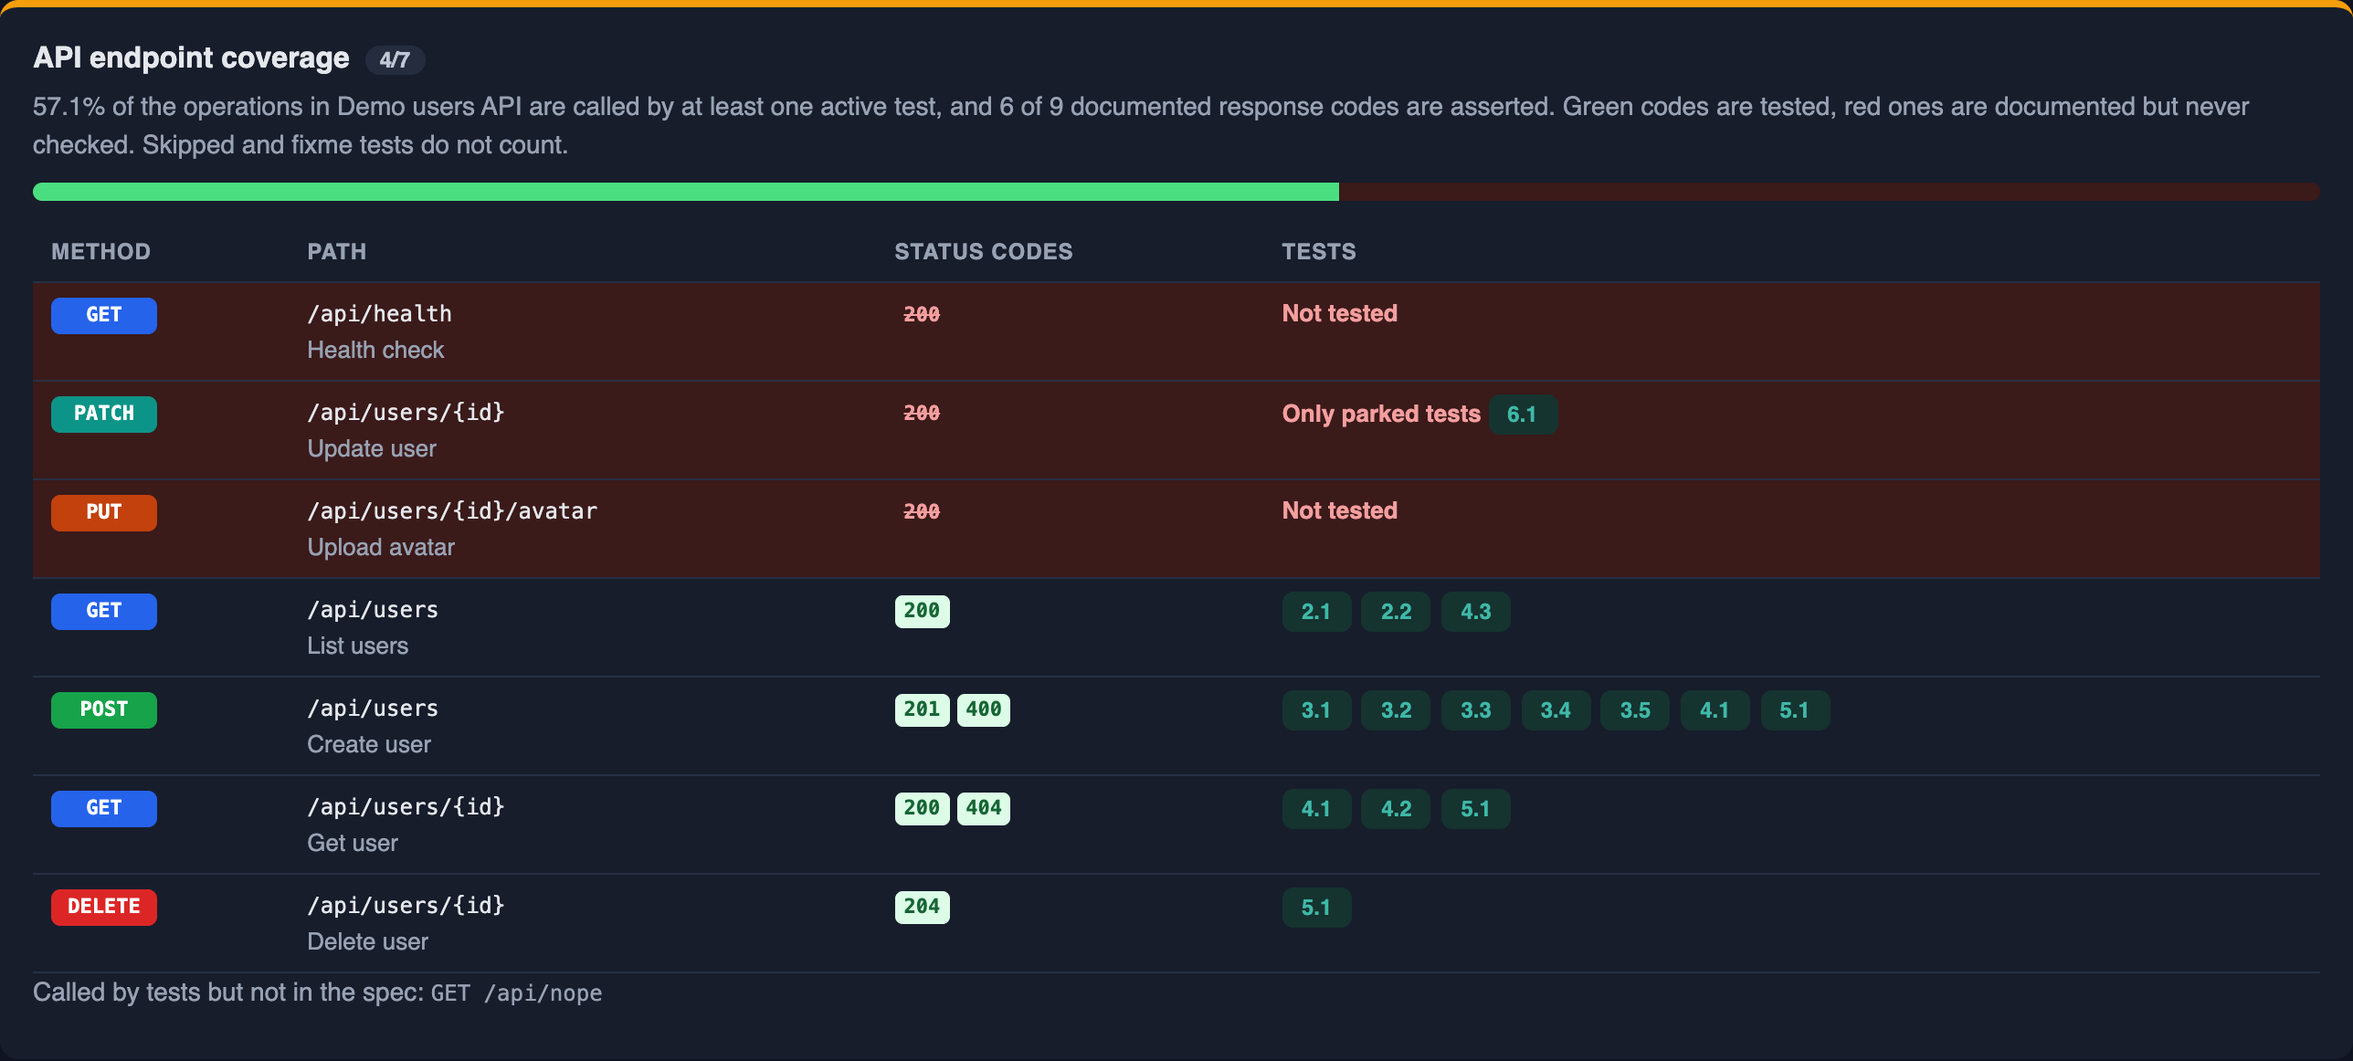
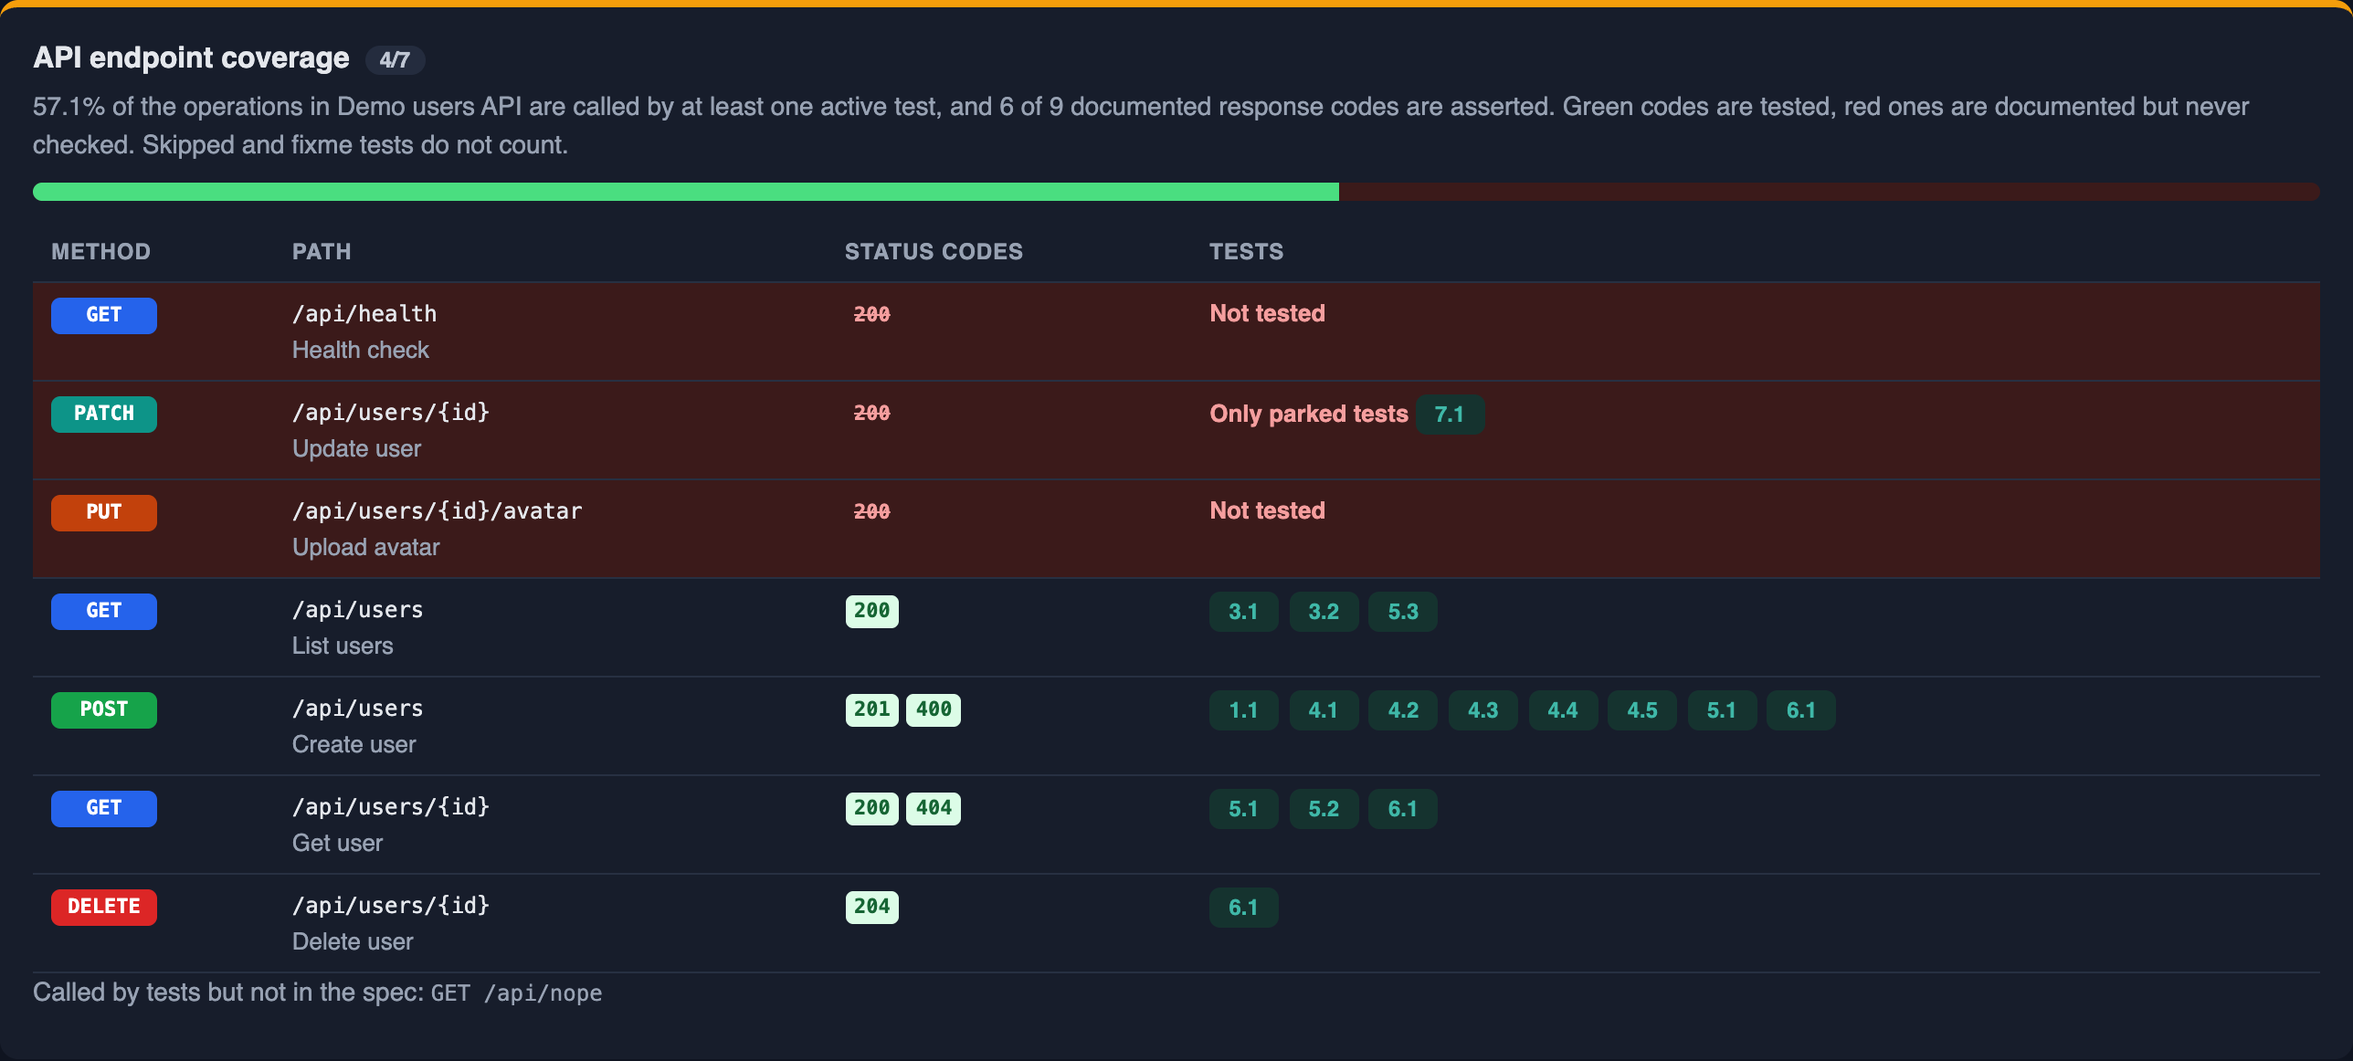
Paginate the tests list and recognise fixture-extended test functions
- Tests tab shows 25/50/100/all tests per page (remembered per browser);
  filters reset to page 1 and links from Insights open the right page.
- Test functions created with test.extend() under any name (testAPI,
  apiTest, ...) are recognised: names are learned from the lines
  Playwright reports and from .step/.describe usage, so their steps,
  assertions and skip/fixme reasons are collected.

diff --git a/src/render/html.js b/src/render/html.js
@@ -254,6 +254,14 @@ ${suite.cases.map(caseHtml).join("\n")}
   .btn { border: 1px solid var(--input); background: var(--card); color: var(--text); border-radius: 8px; padding: 8px 12px; font: inherit; cursor: pointer; }
   .btn:hover { border-color: var(--accent); color: var(--accent); }
   #showing { color: var(--muted); margin-left: auto; font-weight: 600; }
+  .pagesize { display: inline-flex; gap: 6px; align-items: center; color: var(--muted); }
+  .pager { display: flex; flex-wrap: wrap; gap: 6px; justify-content: center; align-items: center; margin: 18px 0 8px; }
+  .pager button { min-width: 38px; border: 1px solid var(--input); background: var(--card); color: var(--text); border-radius: 8px; padding: 7px 11px; font: inherit; cursor: pointer; }
+  .pager button:hover:not(:disabled) { border-color: var(--accent); color: var(--accent); }
+  .pager button[aria-current=page] { background: var(--accent); border-color: var(--accent); color: #fff; }
+  .pager button:disabled { opacity: .45; cursor: default; }
+  .pager .gap { color: var(--muted); padding: 0 2px; }
+  .empty { text-align: center; color: var(--muted); padding: 32px 0; }
   .head, .suite { display: grid; grid-template-columns: 52px 290px minmax(0, 1fr); }
   .head { font-weight: 600; background: var(--head); color: var(--head-text); border-radius: 10px; margin-bottom: 12px; border: 1px solid var(--line); }
   .head > div { padding: 10px 12px; }
@@ -384,12 +392,15 @@ ${suite.cases.map(caseHtml).join("\n")}
       </select>
       <button class="btn" id="expand" type="button">Expand all</button>
       <button class="btn" id="collapse" type="button">Collapse all</button>
+      <label class="pagesize">Per page <select id="pagesize" aria-label="Tests per page"><option value="25">25</option><option value="50">50</option><option value="100">100</option><option value="0">All</option></select></label>
       <span id="showing"></span>
     </div>
     <div class="head"><div>#</div><div>Test suite</div><div class="pair"><div>Test case</div><div>Steps and checks</div></div></div>
     <main id="list">
 ${suitesHtml}
     </main>
+    <p class="empty" id="empty" hidden>No tests match these filters.</p>
+    <nav class="pager" id="pager" aria-label="Test pages"></nav>
   </div>
 
   <div id="insights" role="tabpanel" aria-labelledby="tab-insights" hidden>
@@ -404,27 +415,78 @@ ${sections.join("\n")}
 (() => {
   const $ = (s) => document.querySelector(s);
   const input = $("#q"), flag = $("#flag"), status = $("#status"), showing = $("#showing");
+  const pager = $("#pager"), sizeSelect = $("#pagesize"), list = $("#list"), empty = $("#empty");
   const typeButtons = [...document.querySelectorAll(".seg button")];
   const suites = [...document.querySelectorAll(".suite")];
+  const cases = [...document.querySelectorAll(".case")];
   const total = ${t.cases};
   let type = "all";
+  let page = 0;
+  let matching = cases;
+  let pageSize = 25;
+  try { const saved = localStorage.getItem("pwcm-pagesize"); if (saved !== null) pageSize = Number(saved); } catch {}
+  if (![25, 50, 100, 0].includes(pageSize)) pageSize = 25;
+  sizeSelect.value = String(pageSize);
+
+  const pages = () => (pageSize ? Math.max(1, Math.ceil(matching.length / pageSize)) : 1);
+
+  function filter() {
+    const terms = input.value.toLowerCase().split(/\s+/).filter(Boolean);
+    matching = cases.filter((item) => (type === "all" || item.dataset.type === type)
+      && (!flag.value || item.dataset.flags.split(" ").includes(flag.value))
+      && (!status || !status.value || item.dataset.status === status.value)
+      && terms.every((term) => item.dataset.search.includes(term)));
+  }
+
+  function render() {
+    page = Math.min(page, pages() - 1);
+    const start = pageSize ? page * pageSize : 0;
+    const end = pageSize ? start + pageSize : matching.length;
+    const visible = new Set(matching.slice(start, end));
+    for (const item of cases) item.hidden = !visible.has(item);
+    for (const suite of suites) suite.hidden = ![...suite.querySelectorAll(".case")].some((item) => visible.has(item));
+    empty.hidden = matching.length > 0;
+    const filtered = matching.length === total ? "" : " (" + total + " in total)";
+    showing.textContent = matching.length
+      ? (visible.size === matching.length ? "Showing " + matching.length : "Showing " + (start + 1) + "–" + Math.min(end, matching.length) + " of " + matching.length) + filtered
+      : "Showing 0 of " + total;
+    renderPager();
+  }
+
+  function renderPager() {
+    const count = pages();
+    pager.hidden = count <= 1;
+    if (count <= 1) { pager.innerHTML = ""; return; }
+    const numbers = [...new Set([0, page - 1, page, page + 1, count - 1])].filter((n) => n >= 0 && n < count).sort((a, b) => a - b);
+    const parts = ['<button type="button" data-page="' + (page - 1) + '"' + (page === 0 ? " disabled" : "") + ' aria-label="Previous page">‹ Prev</button>'];
+    numbers.forEach((n, i) => {
+      if (i && n - numbers[i - 1] > 1) parts.push('<span class="gap">…</span>');
+      parts.push('<button type="button" data-page="' + n + '"' + (n === page ? ' aria-current="page"' : "") + ' aria-label="Page ' + (n + 1) + '">' + (n + 1) + "</button>");
+    });
+    parts.push('<button type="button" data-page="' + (page + 1) + '"' + (page === count - 1 ? " disabled" : "") + ' aria-label="Next page">Next ›</button>');
+    pager.innerHTML = parts.join("");
+  }
+
+  pager.addEventListener("click", (event) => {
+    const button = event.target.closest("button[data-page]");
+    if (!button || button.disabled) return;
+    page = Number(button.dataset.page);
+    render();
+    list.scrollIntoView({ block: "start" });
+    window.scrollBy(0, -80);
+  });
+  sizeSelect.addEventListener("change", () => {
+    const first = matching[pageSize ? page * pageSize : 0];
+    pageSize = Number(sizeSelect.value);
+    try { localStorage.setItem("pwcm-pagesize", String(pageSize)); } catch {}
+    page = first && pageSize ? Math.floor(matching.indexOf(first) / pageSize) : 0;
+    render();
+  });
 
   function apply() {
-    const terms = input.value.toLowerCase().split(/\\s+/).filter(Boolean);
-    let shown = 0;
-    for (const suite of suites) {
-      let any = false;
-      for (const item of suite.querySelectorAll(".case")) {
-        const ok = (type === "all" || item.dataset.type === type)
-          && (!flag.value || item.dataset.flags.split(" ").includes(flag.value))
-          && (!status || !status.value || item.dataset.status === status.value)
-          && terms.every((term) => item.dataset.search.includes(term));
-        item.hidden = !ok;
-        if (ok) { any = true; shown += 1; }
-      }
-      suite.hidden = !any;
-    }
-    showing.textContent = "Showing " + shown + " of " + total;
+    filter();
+    page = 0;
+    render();
   }
   input.addEventListener("input", apply);
   flag.addEventListener("change", apply);
@@ -459,11 +521,13 @@ ${sections.join("\n")}
     const target = hash && document.getElementById(hash);
     if (!target || !target.classList.contains("case")) return;
     showTab("tests");
-    if (target.hidden) {
+    if (!matching.includes(target)) {
       input.value = ""; flag.value = ""; if (status) status.value = "";
       type = "all"; typeButtons.forEach((b) => b.setAttribute("aria-pressed", String(b.dataset.type === "all")));
-      apply();
+      filter();
     }
+    if (pageSize) page = Math.floor(matching.indexOf(target) / pageSize);
+    render();
     const details = target.querySelector("details");
     if (details) details.open = true;
     target.scrollIntoView({ block: "center" });

diff --git a/src/analyse.js b/src/analyse.js
@@ -190,10 +190,46 @@ export function createAnalyser(options = {}) {
     return { kind: "api", method, path };
   }
 
+  // ------------------------------------------------------------ test function names
+  // Default names plus any custom ones: functions called on lines where Playwright found a test,
+  // and identifiers used like a test object (`apiTest.step`, `apiTest.describe`, ...).
+  function testFunctionNames(sf, testLines) {
+    const found = new Set(testNames);
+    const lines = new Set(testLines ?? []);
+    const rootOf = (callee) => {
+      let node = callee;
+      while (ts.isPropertyAccessExpression(node)) node = node.expression;
+      return ts.isIdentifier(node) ? node.text : null;
+    };
+    const walk = (node) => {
+      if (ts.isCallExpression(node)) {
+        const callee = node.expression;
+        if (lines.size && isStringish(node.arguments[0]) && node.arguments.some(isFunction)) {
+          const line = sf.getLineAndCharacterOfPosition(node.getStart(sf)).line + 1;
+          const root = rootOf(callee);
+          if (lines.has(line) && root) found.add(root);
+        }
+        if (ts.isPropertyAccessExpression(callee) && ["step", "describe", "beforeEach", "afterEach", "beforeAll", "afterAll"].includes(callee.name.text)) {
+          const root = rootOf(callee.expression);
+          if (root && root !== "expect" && node.arguments.some(isFunction)) found.add(root);
+        }
+      }
+      ts.forEachChild(node, walk);
+    };
+    walk(sf);
+    return found;
+  }
+
   // ------------------------------------------------------------ spec analysis
-  function analyse(file) {
+  /**
+   * @param {string} file
+   * @param {Iterable<number>} [testLines] lines where Playwright found tests in this file. Whatever
+   *   function is called on those lines is a test function (e.g. `testAPI` from `base.extend()`).
+   */
+  function analyse(file, testLines) {
     if (fileCache.has(file)) return fileCache.get(file);
     const sf = parse(file);
+    const names = testFunctionNames(sf, testLines);
     const clients = { ...discoverClients(file), ...configuredClients };
     const constants = {};
     const tests = new Map();
@@ -204,7 +240,7 @@ export function createAnalyser(options = {}) {
         if (ts.isCallExpression(node)) {
           const callee = node.expression;
           // test.step("title", fn)
-          if (ts.isPropertyAccessExpression(callee) && ts.isIdentifier(callee.expression) && testNames.has(callee.expression.text)) {
+          if (ts.isPropertyAccessExpression(callee) && ts.isIdentifier(callee.expression) && names.has(callee.expression.text)) {
             const method = callee.name.text;
             if (method === "step") {
               const fn = node.arguments.find(isFunction);
@@ -283,7 +319,7 @@ export function createAnalyser(options = {}) {
         const callee = node.expression;
         const root = ts.isIdentifier(callee) ? callee : ts.isPropertyAccessExpression(callee) ? callee.expression : null;
         const method = ts.isPropertyAccessExpression(callee) ? callee.name.text : null;
-        const rootIsTest = root && ts.isIdentifier(root) && testNames.has(root.text);
+        const rootIsTest = root && ts.isIdentifier(root) && names.has(root.text);
         const describeRoot = ts.isPropertyAccessExpression(callee) && (callee.name.text === "describe" || (ts.isPropertyAccessExpression(callee.expression) && callee.expression.name.text === "describe"));
 
         if (describeRoot) {

diff --git a/test/cli.test.js b/test/cli.test.js
@@ -19,14 +19,20 @@ test("builds html, json, md and csv for the example suite", () => {
   const res = run("--list-file", listFile, "--openapi", "openapi.json", "--out", out, "-f", "html,json,md,csv", "--no-source-url");
   assert.equal(res.status, 0, res.stderr);
   const report = JSON.parse(readFileSync(join(out, "coverage.json"), "utf8"));
-  assert.equal(report.totals.cases, 18);
-  assert.deepEqual(report.totals.byType, { api: 14, ui: 4 });
-  assert.equal(report.totals.parked, 2);
+  assert.equal(report.totals.cases, 20);
+  assert.deepEqual(report.totals.byType, { api: 16, ui: 4 });
+  assert.equal(report.totals.parked, 3);
   assert.deepEqual(report.warnings, []);
 
   const byTitle = Object.fromEntries(report.suites.flatMap((s) => s.cases).map((c) => [c.title, c]));
   assert.equal(byTitle["rejects an empty name"].steps[0].title, "When I create a user with an empty name");
   assert.equal(byTitle["accepts a name of exactly 50 characters"].steps[0].title, "When I post a name of 50 characters");
+
+  // tests declared with a fixture-extended `testAPI` instead of `test`
+  const viaFixture = byTitle["creates a user with the users fixture"];
+  assert.deepEqual(viaFixture.steps.map((s) => s.title), ["When I create a user", "Then it gets an id"]);
+  assert.equal(viaFixture.assertions, 2);
+  assert.deepEqual(byTitle["reads a missing user"].parked, { kind: "skip", reason: "Parked until ids are stable" });
 
   const ins = report.insights;
   assert.deepEqual(ins.noAssertions.map((id) => byTitle["ping the users endpoint"].id === id), [true]);
@@ -62,7 +68,7 @@ test("quality gates fail the build", () => {
   assert.equal(res.status, 1);
   assert.match(res.stderr, /without assertions/);
   assert.match(res.stderr, /API coverage 57\.1% is below 90%/);
-  assert.match(res.stderr, /2 parked tests \(max 1\)/);
+  assert.match(res.stderr, /3 parked tests \(max 1\)/);
 });
 
 test("diff lists added, removed and changed tests", () => {
@@ -70,7 +76,8 @@ test("diff lists added, removed and changed tests", () => {
   const after = JSON.parse(readFileSync(join(out, "coverage.json"), "utf8"));
   const before = structuredClone(after);
   before.suites[0].cases.push({ ...before.suites[0].cases[0], title: "old test" });
-  before.suites[1].cases[0].checks = [];
+  const listsUsers = before.suites.flatMap((s) => s.cases).find((c) => c.title === "lists users");
+  listsUsers.checks = [];
   const beforeFile = join(out, "before.json");
   writeFileSync(beforeFile, JSON.stringify(before));
   const res = run("diff", beforeFile, join(out, "coverage.json"));

diff --git a/test/analyse.test.js b/test/analyse.test.js
@@ -126,3 +126,25 @@ test("reads the Playwright report even when the config prints logs with braces",
   assert.deepEqual(parseReport(noisy, "test"), report);
   assert.throws(() => parseReport("{ not json }", "test"), /Could not read the JSON report/);
 });
+
+test("recognises custom test functions from test.extend()", () => {
+  const dir = project({
+    "x.spec.ts": `
+      import { apiTest, uiTest } from "./fixtures";
+      apiTest("by line", async ({ request }) => {
+        await apiTest.step("a step", async () => {});
+      });
+      uiTest.describe("group", () => {
+        uiTest("by usage", async ({ page }) => {
+          await uiTest.step("another step", async () => {});
+          uiTest.fixme(true, "later");
+        });
+      });`,
+  });
+  // apiTest is only known from the line Playwright reports; uiTest from its .describe/.step usage
+  const { tests } = createAnalyser()(join(dir, "x.spec.ts"), [3]);
+  const [first, second] = [...tests.values()];
+  assert.deepEqual(first.steps.map((s) => s.title), ["a step"]);
+  assert.deepEqual(second.steps.map((s) => s.title), ["another step"]);
+  assert.deepEqual(second.parked, { kind: "fixme", reason: "later" });
+});

diff --git a/src/model.js b/src/model.js
@@ -58,12 +58,18 @@ export function buildReport({ listReport, runReport, openapi, config }) {
 
   const suites = new Map();
   const warnings = [];
-  for (const spec of flattenReport(listReport)) {
+  const specs = flattenReport(listReport);
+  const linesByFile = new Map();
+  for (const spec of specs) {
+    if (!linesByFile.has(spec.file)) linesByFile.set(spec.file, new Set());
+    linesByFile.get(spec.file).add(spec.line);
+  }
+  for (const spec of specs) {
     const file = toPosix(relative(cwd, spec.file));
     let analysis = { tests: new Map(), constants: {} };
     if (existsSync(spec.file)) {
       try {
-        analysis = analyse(spec.file);
+        analysis = analyse(spec.file, linesByFile.get(spec.file));
       } catch (error) {
         warnings.push(`Could not parse ${file}: ${error.message}`);
       }

diff --git a/example/tests/api/fixture.spec.ts b/example/tests/api/fixture.spec.ts
@@ -1,0 +1,15 @@
+import { testAPI, expect } from "../../fixtures";
+
+testAPI.describe("Users through a fixture", () => {
+  testAPI("creates a user with the users fixture", { tag: "@users" }, async ({ users }) => {
+    const user = await testAPI.step("When I create a user", async () => users.createUser({ name: "Fixture" }));
+    await testAPI.step("Then it gets an id", async () => {
+      expect(user.id).toBeGreaterThan(0);
+    });
+  });
+
+  testAPI("reads a missing user", async ({ users }) => {
+    testAPI.skip(true, "Parked until ids are stable");
+    await users.getUser(424242, 404);
+  });
+});

diff --git a/example/fixtures.ts b/example/fixtures.ts
@@ -1,0 +1,10 @@
+import { test as base, expect } from "@playwright/test";
+import { UsersClient } from "./support/users-client";
+
+// A fixture-extended test with a custom name, as many suites do.
+export const testAPI = base.extend<{ users: UsersClient }>({
+  users: async ({ request }, use) => {
+    await use(new UsersClient(request));
+  },
+});
+export { expect };

diff --git a/README.md b/README.md
@@ -31,7 +31,7 @@ npx pw-coverage-map
 
 ![Insights tab](docs/insights.png)
 
-The HTML report has dark mode, works on phones, prints cleanly and links each test to its line on GitHub, GitLab or Bitbucket (detected from your git remote).
+The HTML report pages through large suites (25/50/100/all per page), has dark mode, works on phones, prints cleanly and links each test to its line on GitHub, GitLab or Bitbucket (detected from your git remote).
 
 ## Install
 
@@ -128,7 +128,7 @@ npx pw-coverage-map diff /tmp/before.json --out changes.md
 ## How it works
 
 1. `playwright test --list --reporter=json` gives the real list of tests: titles (loops expanded), tags, projects, files and lines. Nothing runs: no `globalSetup`, no `webServer`, no browsers.
-2. Each spec is parsed with the TypeScript compiler API. Each listed test is matched to its `test()` call by line, and the tool collects its steps, `expect` chains, HTTP calls, `page.goto`s, `beforeEach` hooks and `skip/fixme` reasons. Relative imports are followed (3 levels) to discover API client methods.
+2. Each spec is parsed with the TypeScript compiler API. Custom test functions made with `test.extend()` (`apiTest`, `testAPI`, …) are recognised automatically from the lines Playwright reports. Each listed test is matched to its `test()` call by line, and the tool collects its steps, `expect` chains, HTTP calls, `page.goto`s, `beforeEach` hooks and `skip/fixme` reasons. Relative imports are followed (3 levels) to discover API client methods.
 3. `${placeholders}` in step titles are filled from the values in the real test title and from literal constants, using a small safe evaluator (no `eval`).
 
 **Limits** (it's static analysis): steps written inside page-object or helper methods are not followed into, a loop *inside* a single test shows as one step with `‹name›`, and values only known at run time stay as placeholders.
